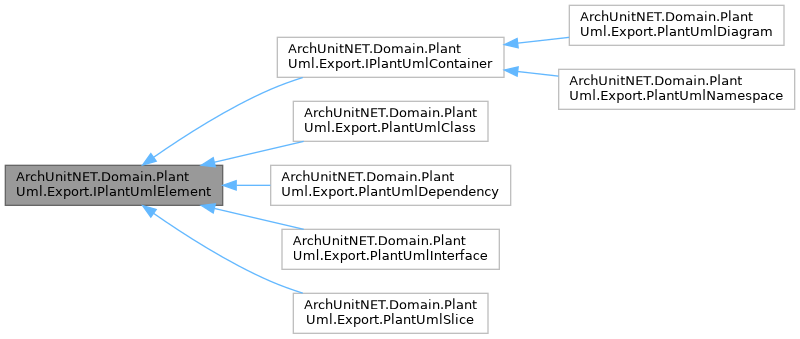
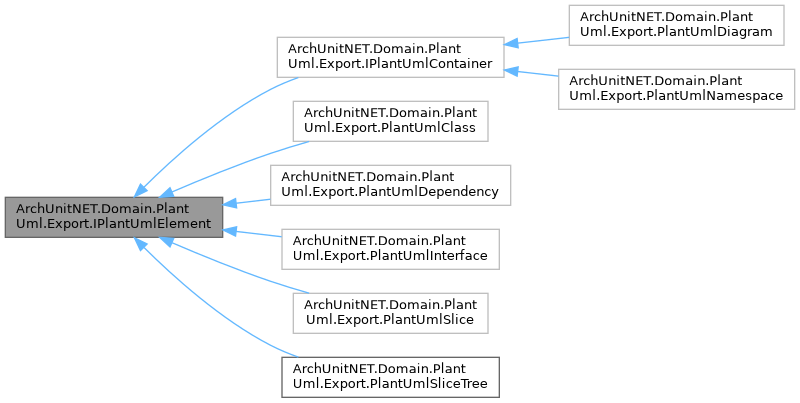
Update documentation for main

diff --git a/latest/interfaceArchUnitNET_1_1Domain_1_1PlantUml_1_1Export_1_1IPlantUmlElement.html b/latest/interfaceArchUnitNET_1_1Domain_1_1PlantUml_1_1Export_1_1IPlantUmlElement.html
@@ -101,17 +101,19 @@ Inheritance diagram for ArchUnitNET.Domain.PlantUml.Export.IPlantUmlElement:</di
 <div class="dyncontent">
 <div class="center"><img src="interfaceArchUnitNET_1_1Domain_1_1PlantUml_1_1Export_1_1IPlantUmlElement__inherit__graph.png" border="0" usemap="#aArchUnitNET_8Domain_8PlantUml_8Export_8IPlantUmlElement_inherit__map" alt="Inheritance graph"/></div>
 <map name="aArchUnitNET_8Domain_8PlantUml_8Export_8IPlantUmlElement_inherit__map" id="aArchUnitNET_8Domain_8PlantUml_8Export_8IPlantUmlElement_inherit__map">
-<area shape="rect" title=" " alt="" coords="5,165,223,205"/>
+<area shape="rect" title=" " alt="" coords="5,197,223,237"/>
 <area shape="rect" href="interfaceArchUnitNET_1_1Domain_1_1PlantUml_1_1Export_1_1IPlantUmlContainer.html" title=" " alt="" coords="277,37,504,77"/>
-<area shape="poly" title=" " alt="" coords="152,155,206,120,270,87,302,75,304,80,272,92,209,125,155,160"/>
+<area shape="poly" title=" " alt="" coords="142,185,198,135,233,109,269,87,297,75,299,80,272,92,236,114,201,139,146,189"/>
 <area shape="rect" href="classArchUnitNET_1_1Domain_1_1PlantUml_1_1Export_1_1PlantUmlClass.html" title=" " alt="" coords="293,101,488,141"/>
-<area shape="poly" title=" " alt="" coords="214,160,303,139,304,144,215,165"/>
+<area shape="poly" title=" " alt="" coords="171,189,270,151,308,139,310,144,272,156,173,194"/>
 <area shape="rect" href="classArchUnitNET_1_1Domain_1_1PlantUml_1_1Export_1_1PlantUmlDependency.html" title=" " alt="" coords="271,165,511,205"/>
-<area shape="poly" title=" " alt="" coords="236,183,270,183,270,188,236,188"/>
+<area shape="poly" title=" " alt="" coords="236,201,270,197,271,202,236,206"/>
 <area shape="rect" href="classArchUnitNET_1_1Domain_1_1PlantUml_1_1Export_1_1PlantUmlInterface.html" title=" " alt="" coords="282,229,499,269"/>
-<area shape="poly" title=" " alt="" coords="215,206,304,227,303,232,214,211"/>
+<area shape="poly" title=" " alt="" coords="236,229,282,234,281,239,236,234"/>
 <area shape="rect" href="classArchUnitNET_1_1Domain_1_1PlantUml_1_1Export_1_1PlantUmlSlice.html" title=" " alt="" coords="293,293,488,333"/>
-<area shape="poly" title=" " alt="" coords="155,211,209,246,272,279,304,291,302,296,270,284,206,251,152,216"/>
+<area shape="poly" title=" " alt="" coords="173,240,272,279,310,291,308,296,270,284,171,245"/>
+<area shape="rect" title=" " alt="" coords="282,357,499,397"/>
+<area shape="poly" title=" " alt="" coords="146,245,201,296,236,321,272,343,299,355,297,360,269,348,233,326,198,300,142,249"/>
 <area shape="rect" href="classArchUnitNET_1_1Domain_1_1PlantUml_1_1Export_1_1PlantUmlDiagram.html" title=" " alt="" coords="569,5,784,45"/>
 <area shape="poly" title=" " alt="" coords="518,40,569,35,569,40,518,46"/>
 <area shape="rect" href="classArchUnitNET_1_1Domain_1_1PlantUml_1_1Export_1_1PlantUmlNamespace.html" title=" " alt="" coords="559,69,795,109"/>

diff --git a/latest/namespaceArchUnitNET_1_1Domain_1_1PlantUml_1_1Export.html b/latest/namespaceArchUnitNET_1_1Domain_1_1PlantUml_1_1Export.html
@@ -123,6 +123,9 @@ Classes</h2></td></tr>
 <tr class="separator:"><td class="memSeparator" colspan="2">&#160;</td></tr>
 <tr class="memitem:"><td class="memItemLeft" align="right" valign="top">class &#160;</td><td class="memItemRight" valign="bottom"><a class="el" href="classArchUnitNET_1_1Domain_1_1PlantUml_1_1Export_1_1PlantUmlSlice.html">PlantUmlSlice</a></td></tr>
 <tr class="separator:"><td class="memSeparator" colspan="2">&#160;</td></tr>
+<tr class="memitem:"><td class="memItemLeft" align="right" valign="top">class &#160;</td><td class="memItemRight" valign="bottom"><b>PlantUmlSliceTree</b></td></tr>
+<tr class="memdesc:"><td class="mdescLeft">&#160;</td><td class="mdescRight">A package (or C4 boundary) that holds nested slices, rendered as a single block. <br /></td></tr>
+<tr class="separator:"><td class="memSeparator" colspan="2">&#160;</td></tr>
 <tr class="memitem:"><td class="memItemLeft" align="right" valign="top">class &#160;</td><td class="memItemRight" valign="bottom"><a class="el" href="classArchUnitNET_1_1Domain_1_1PlantUml_1_1Export_1_1RenderOptions.html">RenderOptions</a></td></tr>
 <tr class="separator:"><td class="memSeparator" colspan="2">&#160;</td></tr>
 </table><table class="memberdecls">
